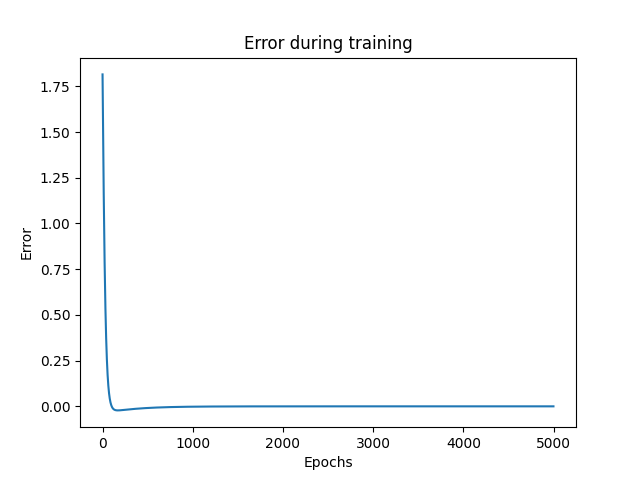
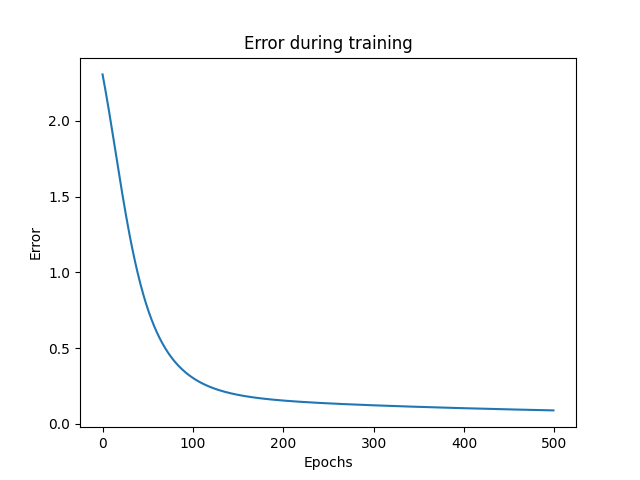
Sync

diff --git a/Machine-Learning/perceptron_oop.py b/Machine-Learning/perceptron_oop.py
@@ -53,7 +53,7 @@ class Perceptron:
 input_set = np.array([[0, 0, 1], [0, 1, 1], [1, 0, 1], [1, 1, 1]])
 labels = np.array([[0], [0], [0], [1]])
 perceptron = Perceptron(input_set, labels)
-perceptron.train(num_epochs=5000)
+perceptron.train(num_epochs=500)
 perceptron.plot(perceptron.errors)
 
 #testing
